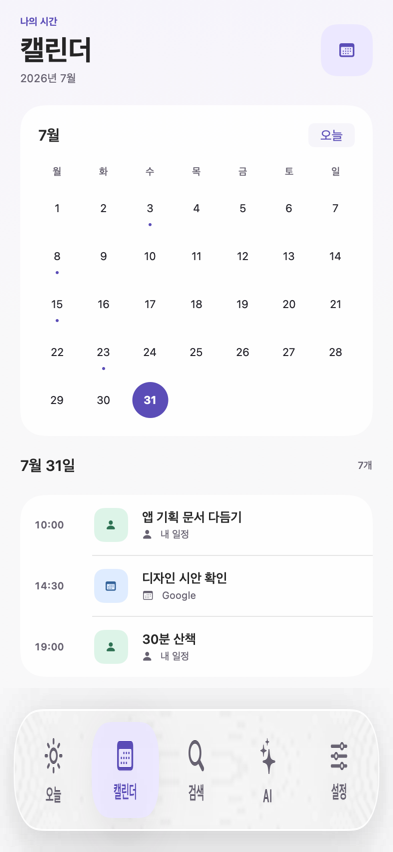
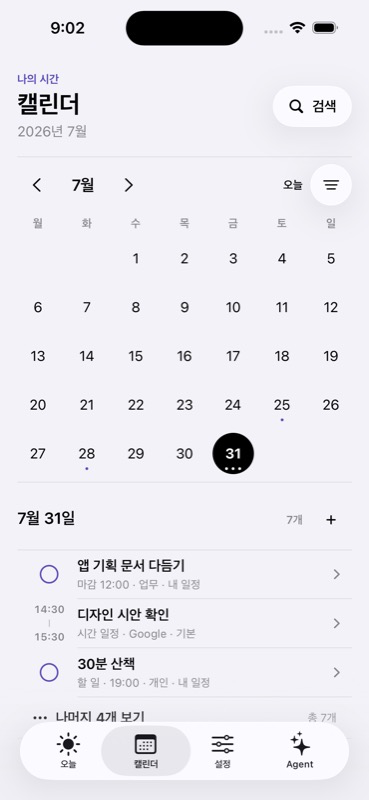
docs: lock unified density and glass rules

diff --git a/docs/29-ui-grid-and-modal-audit.md b/docs/29-ui-grid-and-modal-audit.md
@@ -12,17 +12,17 @@
 - 일정·브리핑·오늘 요약 결정 행은 `12pt inset + 44pt 선행 열 + 8pt 간격`을 공유한다. 완료 원·시간축·브리핑 번호는 같은 중심축, 제목과 구분선은 같은 본문 시작축에 놓인다.
 - 오늘 주간 인덱스와 월간 캘린더는 `MemdoScheduleCountDots`를 공유한다. 미완료 일정 수를 1–3개 점으로 축약하고 정확한 수는 선택 날짜 헤더와 VoiceOver 값에 둔다.
 - 간격은 `4 / 8 / 12 / 16 / 20 / 24 / 28 / 32pt`만 사용한다. 선 두께, 밀도 점, 잠금화면 위젯처럼 시스템 크기 제약이 있는 장식은 예외다.
-- 설정 Glass 그룹의 외곽은 섹션 제목과 같은 `18pt` 축, 모든 행은 그룹 안쪽 `12pt` 축을 공유한다.
+- 설정 열린 행 그룹의 외곽은 섹션 제목과 같은 `18pt` 축, 모든 행은 그룹 안쪽 `12pt` 축을 공유한다.
 - 하단 탭 바는 네이티브 `TabView`가 소유하며 콘텐츠는 `72pt` 하단 여유를 둔다.
 
 ## Glass 제어 규칙
 
-- Liquid Glass는 검색·필터·설정 제어 그룹과 하단 내비게이션에만 사용하고 일정·브리핑 콘텐츠에는 적용하지 않는다.
-- 캘린더 검색은 라벨형 Glass 진입 버튼, Glass 검색 필드, 하나의 Glass 범위 그룹으로 이어진다.
+- Liquid Glass는 검색·필터·키워드 입력·헤더 액션·Agent composer와 하단 내비게이션에만 사용하고 일정·브리핑·설정 콘텐츠에는 적용하지 않는다.
+- 캘린더 검색은 라벨형 Glass 진입 버튼, Glass 검색 필드, 네이티브 segmented 범위 선택으로 이어진다.
 - 월 필터는 우측 모서리에 고립시키지 않고 월 이동 제어 옆에 배치하며 현재 필터 이름을 항상 표시한다.
-- 월간 카드는 `16pt` 내부 여백과 `8/12pt` 간격을 사용하고 이전·다음 달 버튼은 각각 `44×44pt`를 보장한다.
-- 설정은 행마다 카드를 만들지 않고 섹션당 하나의 비상호작용 Glass 패널로 묶는다.
-- iOS 26에서는 여러 Glass 제어를 `GlassEffectContainer`로 결합하고, 이전 버전은 material과 outline으로 대체한다.
+- 월간 그리드는 카드 없이 상하 Divider 사이에 두고 `8/10pt` 간격을 사용하며 이전·다음 달 버튼은 각각 `44×44pt`를 보장한다.
+- 설정은 행마다 카드를 만들거나 비상호작용 Glass 패널로 감싸지 않는다. 입력처럼 직접 조작하는 표면만 interactive Glass를 사용한다.
+- iOS 26에서는 interactive 조작층에 네이티브 `glassEffect`를 적용하고, 이전 버전은 material과 outline으로 대체한다.
 
 ## 모달 높이 규칙
 
@@ -48,9 +48,9 @@
 | 오늘 요약 | 완료 링 | large, 완료·내일·더보기 열과 삭제 확인 흐름 확인 |
 | 일정 이동 | 요약 행 더보기 | medium, 취소/이동과 DatePicker 확인 |
 | Agent | 하단 Agent | medium + large, composer가 키보드·안전 영역과 분리됨 |
-| 캘린더 | 탭 | 월 카드와 선택일 일정이 18pt 외곽 축 사용, 필터를 월 이동 옆에 배치 |
+| 캘린더 | 탭 | 월간 그리드와 선택일 열린 행이 18pt 외곽 축 사용, 필터를 오늘 행동 옆에 배치 |
 | 날짜별 일정 | 날짜 길게 누르기 | medium + large, 상단 +로 스크롤 없이 새 일정 진입 가능 |
-| 검색 | 캘린더 검색 | 라벨형 Glass 진입·검색 필드·범위 그룹이 페이지 축 유지, 닫기 제공 |
+| 검색 | 캘린더 검색 | 라벨형 Glass 진입·검색 필드·segmented 범위가 페이지 축 유지, 닫기 제공 |
 | 검색 필터 | 검색 결과 필터 | medium, 단일 완료 동작 유지 |
 | Google Calendar | 설정 | large, 권한 원칙과 연결 CTA 동시 확인 |
 | Slack | 설정 | large, 실제 MVP 범위·권한·금지 동작 확인 |
